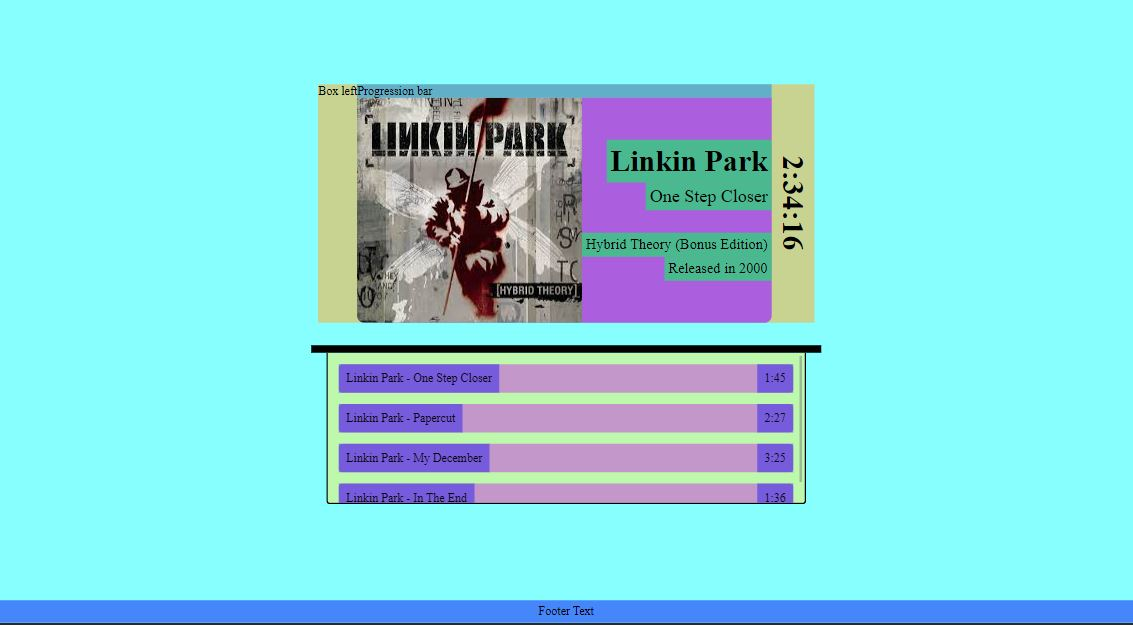
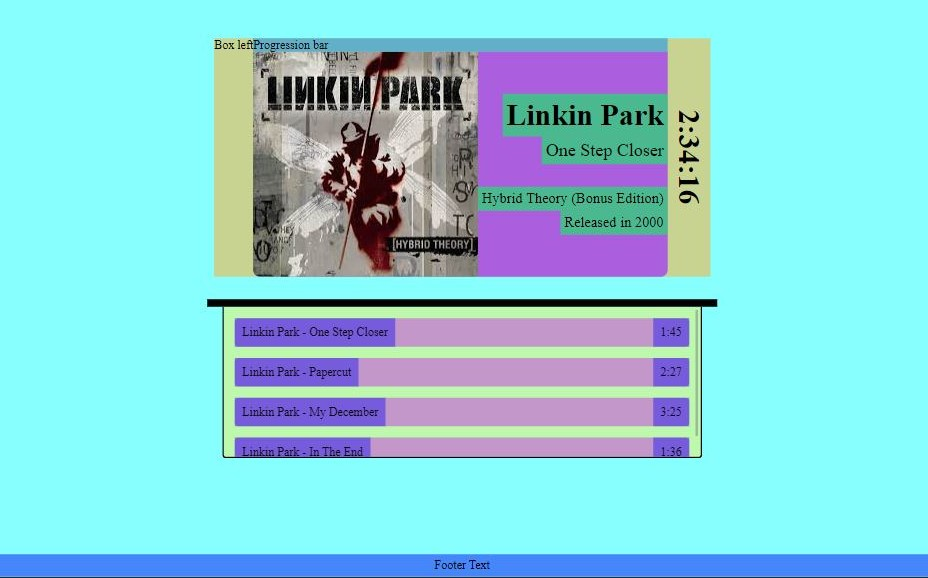
Update README.md

diff --git a/public/css/index.css b/public/css/index.css
@@ -259,7 +259,7 @@ footer {
   }
   #box-left,
   #box-right {
-    width: 20px;
+    min-width: 10px;
   }
   #box-right {
     font-size: 1.5rem;

diff --git a/README.md b/README.md
@@ -1,21 +1,37 @@
 # Music App
 
+Front end web application - to listen to my premade playlist.
+
+- The purpose of developing this app is to improve my knowledge and practise on webdesign: working with concepts such as audio, dynamic web development (web/mobile), flexbox, etc.
+
+- The music used is copy right free and can be found at [NoCopyrightSounds]('http://ncs.io'). Sadly no Linkin Park :(
+
+- JS library used: [jQuery]('https://jquery.com')
+
 ---
 
-## Wireframes
+## Application Screenshots
 
 <p align="center">
-  <img src="img/wireframe-web.JPG?raw=true" alt="Wireframe web"/>
+  <img src="img/app2.JPG?raw=true" alt="App screenshot web"/>
   <br>
-  <i>Wireframe for Web</i>
+  <i>App screenshot for desktop devices</i>
 </p>
 
 ---
 
 <p align="center">
-  <img src="img/wireframe-mobile.JPG?raw=true" alt="Wireframe mobile"/>
+  <img src="img/app3.JPG?raw=true" alt="App screenshot tablet"/>
   <br>
-  <i>Wireframe for Mobile</i>
+  <i>App screenshot for tablet devices</i>
+</p>
+
+---
+
+<p align="center">
+  <img src="img/app4.JPG?raw=true" alt="App screenshot mobile"/>
+  <br>
+  <i>App screenshot for mobile devices</i>
 </p>
 
 ---
@@ -34,6 +50,24 @@
   <img src="img/development2.JPG?raw=true" alt="Wireframe Mobile"/>
   <br>
   <i>Dynamic App Development for Mobile</i>
+</p>
+
+---
+
+## Wireframes
+
+<p align="center">
+  <img src="img/wireframe-web.JPG?raw=true" alt="Wireframe web"/>
+  <br>
+  <i>Wireframe for Web</i>
+</p>
+
+---
+
+<p align="center">
+  <img src="img/wireframe-mobile.JPG?raw=true" alt="Wireframe mobile"/>
+  <br>
+  <i>Wireframe for Mobile</i>
 </p>
 
 ---
